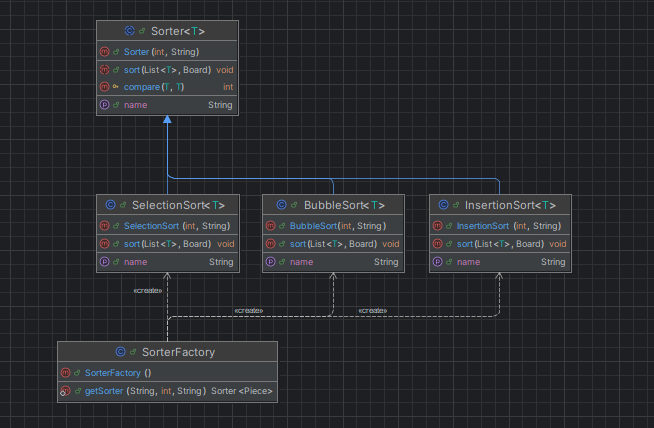
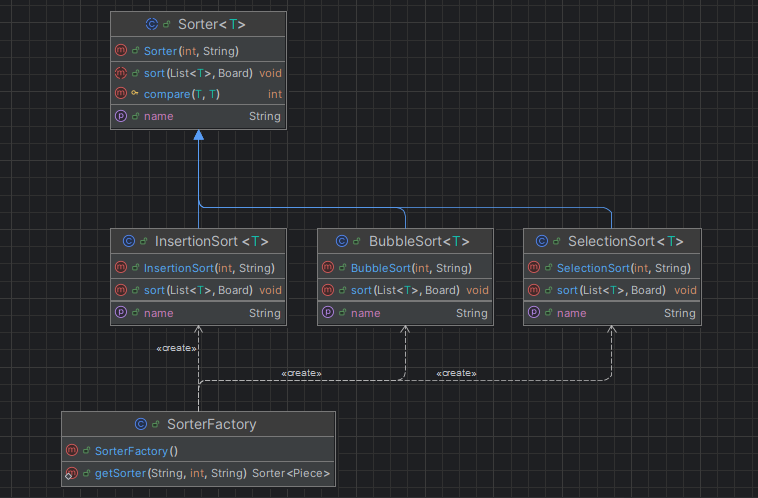
add finals solves

diff --git a/src/sorting/Sorter.java b/src/sorting/Sorter.java
@@ -2,7 +2,13 @@ package sorting;
 
 import java.util.List;
 import board.Board;
-
+    /**
+     * Sorts the given list of values according to the specified order.
+     * The sorting process may involve visualizing the sorting steps on the provided board.
+     *
+     * @param values the list of values to be sorted
+     * @param board the board used for visualization of the sorting process
+     */
 public abstract class Sorter<T extends Comparable<T>> {
     protected int pause;
     protected String color;
@@ -12,6 +18,13 @@ public abstract class Sorter<T extends Comparable<T>> {
         this.color = color;
     }
 
+    /**
+     * Sorts the given list of values according to the specified order.
+     * The sorting process may involve visualizing the sorting steps on the provided board.
+     *
+     * @param values the list of values to be sorted
+     * @param board the board used for visualization of the sorting process
+     */
     public abstract void sort(List<T> values, Board board);
     public abstract String getName();
 

diff --git a/src/game/GameInitializer.java b/src/game/GameInitializer.java
@@ -1,0 +1,24 @@
+package game;
+
+import board.Board;
+import Piece.*;
+import java.util.List;
+import java.util.Map;
+
+public class GameInitializer {
+
+    public static Board initializeGame(Map<String, String> parameters) {
+        String type = parameters.get("t");
+        String color = parameters.get("c");
+        int r = Integer.parseInt(parameters.get("r"));
+
+        String fullColor = color.equalsIgnoreCase("b") ? "black" : "white";
+
+        List<Piece> pieces = PieceGenerator.generatePieces(fullColor, type, r);
+
+        Board board = new Board();
+        board.placePieces(pieces, color, r);
+
+        return board;
+    }
+}

diff --git a/src/game/ParameterProcessor.java b/src/game/ParameterProcessor.java
@@ -1,0 +1,19 @@
+package game;
+
+import java.util.HashMap;
+import java.util.Map;
+
+public class ParameterProcessor {
+    public static Map<String, String> processParameters(String[] args) {
+        Map<String, String> parameters = new HashMap<>();
+        for (String arg : args) {
+            if (arg.contains("=")) {
+                String[] parts = arg.split("=");
+                if (parts.length == 2) {
+                    parameters.put(parts[0].toLowerCase(), parts[1].toLowerCase());
+                }
+            }
+        }
+        return parameters;
+    }
+}

diff --git a/src/game/GameSorter.java b/src/game/GameSorter.java
@@ -1,0 +1,20 @@
+package game;
+
+import board.*;
+import sorting.Sorter;
+import sorting.SorterFactory;
+import Piece.*;
+import java.util.Map;
+
+public class GameSorter {
+
+    public static void sortPieces(Map<String, String> parameters, Board board) {
+        String algorithm = parameters.get("a");
+        String color = parameters.get("c");
+        int s = Integer.parseInt(parameters.get("s"));
+
+        Sorter<Piece> sorter = SorterFactory.getSorter(algorithm, s, color);
+
+        sorter.sort(board.getPieces(), board);
+    }
+}

diff --git a/src/Piece/PieceGenerator.java b/src/Piece/PieceGenerator.java
@@ -41,11 +41,10 @@ public class PieceGenerator {
                 pieces.add(new Rook(color));
                 break;
             case 10:
+
                 for (int i = 0; i < 8; i++) {
                     pieces.add(new Pawn(color));
                 }
-                pieces.add(new King(color));
-                pieces.add(new Queen(color));
                 break;
             case 16:
                 for (int i = 0; i < 8; i++) {

diff --git a/src/sorting/SelectionSort.java b/src/sorting/SelectionSort.java
@@ -45,6 +45,6 @@ public class SelectionSort<T extends Comparable<T>> extends Sorter<T> {
             }
         }
         long sortingTime = System.currentTimeMillis() - startTime;
-        System.out.println("Tiempo transcurrido: " + sortingTime + " ms");
+        System.out.println("transcure time : " + sortingTime + " ms");
     }
 }

diff --git a/src/Piece/Piece.java b/src/Piece/Piece.java
@@ -13,10 +13,6 @@ public class Piece implements Comparable<Piece> {
         return type.getSymbolCode();
     }
 
-    public PieceType getType() {
-        return type;
-    }
-
     @Override
     public String toString() {
         return getSymbol();

diff --git a/src/game/BoardPrinter.java b/src/game/BoardPrinter.java
@@ -1,0 +1,11 @@
+package game;
+
+import board.Board;
+
+public class BoardPrinter {
+    public static void printBoard(Board board, String message) {
+        System.out.println(message);
+        board.printBoard();
+    }
+}
+

diff --git a/src/README.md b/src/README.md
@@ -63,6 +63,6 @@ Example usage:
 java ChessGame -a b -t n -c b -r 8 -s 1000
 ```
 ## diagram
-![img_2.png](img/img_2.png)
+![img.png](img/img.png)
 
-![img_3.png](img/img_3.png)
+![img_1.png](img/img_1.png)
